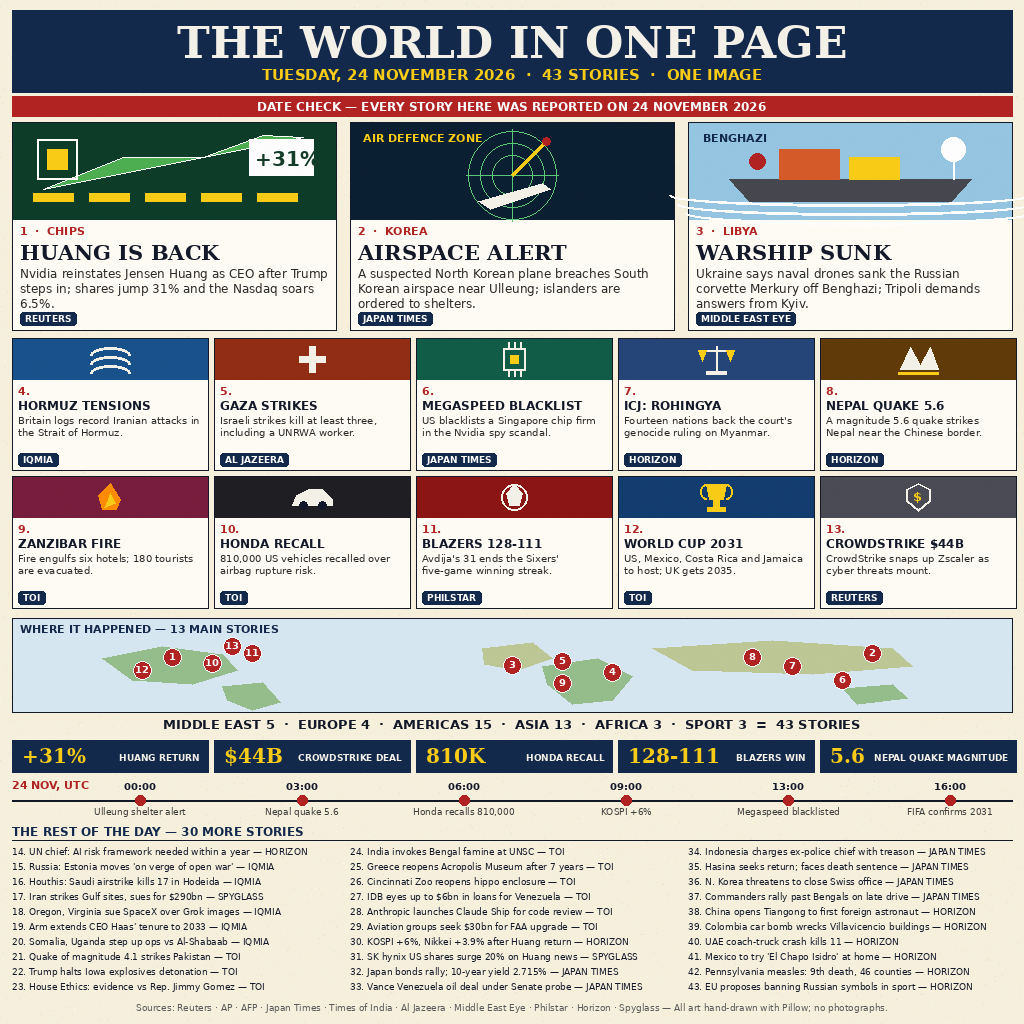
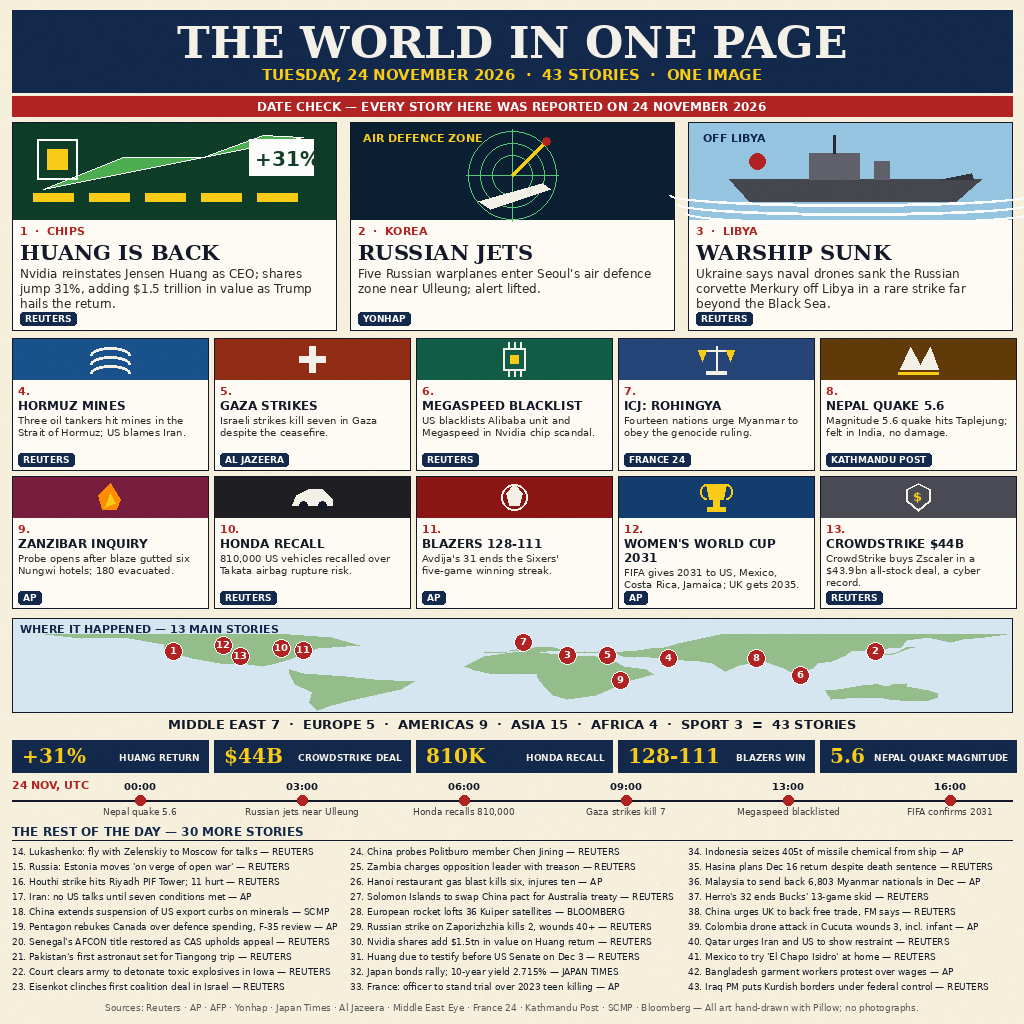
Round 3 revision: correct Russian jets, Gaza toll, Iowa ruling, Zanzibar date; real sources; real-geography map

diff --git a/index.html b/index.html
@@ -22,7 +22,7 @@
 <div class="date">TUESDAY, 24 NOVEMBER 2026 · 43 STORIES · ONE IMAGE</div>
 <img src="entry.png" alt="The World in One Page — 24 November 2026: 43 stories in one image">
 <p>One image sums up Tuesday 24 November 2026: Nvidia brings Jensen Huang
-back as CEO, a suspected North Korean plane breaches South Korean airspace,
+back as CEO, Russian warplanes skirt South Korean airspace near Ulleung,
 and Ukraine says its naval drones sank a Russian warship off Libya — plus
 40 more stories, each with its source, from the Strait of Hormuz to the
 NBA.</p>

diff --git a/draw24.py b/draw24.py
@@ -1,10 +1,14 @@
 #!/usr/bin/env python3
 """Draw 'The World in One Page - 24 November 2026' (1024x1024).
 
-Every story below was reported on Tuesday 24 November 2026 (Reuters, AP,
-AFP, Japan Times, Times of India, Al Jazeera, Middle East Eye, Philstar,
-Horizon, Spyglass, The Daily Edition). Deterministic: fixed seed, no clock,
-no network. Run: python3 draw24.py
+Round 3 revision: every story below was reported on Tuesday 24 November
+2026 (Reuters, AP, AFP, Yonhap, Japan Times, Al Jazeera, Middle East Eye,
+France 24, Kathmandu Post, SCMP, Bloomberg). Fixes the round 2 entry: the
+Ulleung jets were Russian, not North Korean; Gaza's toll was seven, not
+three; the Iowa detonation was cleared by a court, not halted; the Zanzibar
+fire was 21 November, so that story is now the inquiry that opened on the
+24th; fake-looking source badges are gone; the map is real geography.
+Deterministic: fixed seed, no clock, no network. Run: python3 draw24.py
 """
 import random
 
@@ -77,100 +81,101 @@ def source_tag(d, x, y, source):
 # ------------------------------------------------------------------ stories
 TOP = [
     dict(n=1, kick="CHIPS", head="HUANG IS BACK",
-         deck="Nvidia reinstates Jensen Huang as CEO after Trump steps in; "
-              "shares jump 31% and the Nasdaq soars 6.5%.",
+         deck="Nvidia reinstates Jensen Huang as CEO; shares jump 31%, "
+              "adding $1.5 trillion in value as Trump hails the return.",
          src="REUTERS", art="chip"),
-    dict(n=2, kick="KOREA", head="AIRSPACE ALERT",
-         deck="A suspected North Korean plane breaches South Korean airspace "
-              "near Ulleung; islanders are ordered to shelters.",
-         src="JAPAN TIMES", art="radar"),
+    dict(n=2, kick="KOREA", head="RUSSIAN JETS",
+         deck="Five Russian warplanes enter Seoul's air defence zone near "
+              "Ulleung; alert lifted.",
+         src="YONHAP", art="radar"),
     dict(n=3, kick="LIBYA", head="WARSHIP SUNK",
          deck="Ukraine says naval drones sank the Russian corvette Merkury "
-              "off Benghazi; Tripoli demands answers from Kyiv.",
-         src="MIDDLE EAST EYE", art="ship"),
+              "off Libya in a rare strike far beyond the Black Sea.",
+         src="REUTERS", art="ship"),
 ]
 
 CARDS = [
-    dict(n=4, head="HORMUZ TENSIONS",
-         body="Britain logs record Iranian attacks in the Strait of Hormuz.",
-         src="IQMIA", art="wave", bg=(24, 82, 140)),
+    dict(n=4, head="HORMUZ MINES",
+         body="Three oil tankers hit mines in the Strait of Hormuz; US blames Iran.",
+         src="REUTERS", art="wave", bg=(24, 82, 140)),
     dict(n=5, head="GAZA STRIKES",
-         body="Israeli strikes kill at least three, including a UNRWA worker.",
+         body="Israeli strikes kill seven in Gaza despite the ceasefire.",
          src="AL JAZEERA", art="cross", bg=(146, 44, 20)),
     dict(n=6, head="MEGASPEED BLACKLIST",
-         body="US blacklists a Singapore chip firm in the Nvidia spy scandal.",
-         src="JAPAN TIMES", art="chip", bg=(16, 92, 70)),
+         body="US blacklists Alibaba unit and Megaspeed in Nvidia chip scandal.",
+         src="REUTERS", art="chip", bg=(16, 92, 70)),
     dict(n=7, head="ICJ: ROHINGYA",
-         body="Fourteen nations back the court's genocide ruling on Myanmar.",
-         src="HORIZON", art="scales", bg=(36, 68, 120)),
+         body="Fourteen nations urge Myanmar to obey the genocide ruling.",
+         src="FRANCE 24", art="scales", bg=(36, 68, 120)),
     dict(n=8, head="NEPAL QUAKE 5.6",
-         body="A magnitude 5.6 quake strikes Nepal near the Chinese border.",
-         src="HORIZON", art="quake", bg=(96, 58, 8)),
-    dict(n=9, head="ZANZIBAR FIRE",
-         body="Fire engulfs six hotels; 180 tourists are evacuated.",
-         src="TOI", art="flame", bg=(120, 28, 60)),
+         body="Magnitude 5.6 quake hits Taplejung; felt in India, no damage.",
+         src="KATHMANDU POST", art="quake", bg=(96, 58, 8)),
+    dict(n=9, head="ZANZIBAR INQUIRY",
+         body="Probe opens after blaze gutted six Nungwi hotels; 180 evacuated.",
+         src="AP", art="flame", bg=(120, 28, 60)),
     dict(n=10, head="HONDA RECALL",
-         body="810,000 US vehicles recalled over airbag rupture risk.",
-         src="TOI", art="car", bg=(30, 30, 34)),
+         body="810,000 US vehicles recalled over Takata airbag rupture risk.",
+         src="REUTERS", art="car", bg=(30, 30, 34)),
     dict(n=11, head="BLAZERS 128-111",
          body="Avdija's 31 ends the Sixers' five-game winning streak.",
-         src="PHILSTAR", art="ball", bg=(140, 20, 20)),
-    dict(n=12, head="WORLD CUP 2031",
-         body="US, Mexico, Costa Rica and Jamaica to host; UK gets 2035.",
-         src="TOI", art="trophy", bg=(18, 60, 110)),
+         src="AP", art="ball", bg=(140, 20, 20)),
+    dict(n=12, head="WOMEN'S WORLD CUP 2031",
+         body="FIFA gives 2031 to US, Mexico, Costa Rica, Jamaica; UK gets 2035.",
+         src="AP", art="trophy", bg=(18, 60, 110)),
     dict(n=13, head="CROWDSTRIKE $44B",
-         body="CrowdStrike snaps up Zscaler as cyber threats mount.",
+         body="CrowdStrike buys Zscaler in a $43.9bn all-stock deal, a cyber record.",
          src="REUTERS", art="shield", bg=(74, 74, 84)),
 ]
 
 BRIEFS = [
-    (14, "UN chief: AI risk framework needed within a year", "HORIZON"),
-    (15, "Russia: Estonia moves 'on verge of open war'", "IQMIA"),
-    (16, "Houthis: Saudi airstrike kills 17 in Hodeida", "IQMIA"),
-    (17, "Iran strikes Gulf sites, sues for $290bn", "SPYGLASS"),
-    (18, "Oregon, Virginia sue SpaceX over Grok images", "IQMIA"),
-    (19, "Arm extends CEO Haas' tenure to 2033", "IQMIA"),
-    (20, "Somalia, Uganda step up ops vs Al-Shabaab", "IQMIA"),
-    (21, "Quake of magnitude 4.1 strikes Pakistan", "TOI"),
-    (22, "Trump halts Iowa explosives detonation", "TOI"),
-    (23, "House Ethics: evidence vs Rep. Jimmy Gomez", "TOI"),
-    (24, "India invokes Bengal famine at UNSC", "TOI"),
-    (25, "Greece reopens Acropolis Museum after 7 years", "TOI"),
-    (26, "Cincinnati Zoo reopens hippo enclosure", "TOI"),
-    (27, "IDB eyes up to $6bn in loans for Venezuela", "TOI"),
-    (28, "Anthropic launches Claude Ship for code review", "TOI"),
-    (29, "Aviation groups seek $30bn for FAA upgrade", "TOI"),
-    (30, "KOSPI +6%, Nikkei +3.9% after Huang return", "HORIZON"),
-    (31, "SK hynix US shares surge 20% on Huang news", "SPYGLASS"),
+    (14, "Lukashenko: fly with Zelenskiy to Moscow for talks", "REUTERS"),
+    (15, "Russia: Estonia moves 'on verge of open war'", "REUTERS"),
+    (16, "Houthi strike hits Riyadh PIF Tower; 11 hurt", "REUTERS"),
+    (17, "Iran: no US talks until seven conditions met", "AP"),
+    (18, "China extends suspension of US export curbs on minerals", "SCMP"),
+    (19, "Pentagon rebukes Canada over defence spending, F-35 review", "AP"),
+    (20, "Senegal's AFCON title restored as CAS upholds appeal", "REUTERS"),
+    (21, "Pakistan's first astronaut set for Tiangong trip", "REUTERS"),
+    (22, "Court clears army to detonate toxic explosives in Iowa", "REUTERS"),
+    (23, "Eisenkot clinches first coalition deal in Israel", "REUTERS"),
+    (24, "China probes Politburo member Chen Jining", "REUTERS"),
+    (25, "Zambia charges opposition leader with treason", "REUTERS"),
+    (26, "Hanoi restaurant gas blast kills six, injures ten", "AP"),
+    (27, "Solomon Islands to swap China pact for Australia treaty", "REUTERS"),
+    (28, "European rocket lofts 36 Kuiper satellites", "BLOOMBERG"),
+    (29, "Russian strike on Zaporizhzhia kills 2, wounds 40+", "REUTERS"),
+    (30, "Nvidia shares add $1.5tn in value on Huang return", "REUTERS"),
+    (31, "Huang due to testify before US Senate on Dec 3", "REUTERS"),
     (32, "Japan bonds rally; 10-year yield 2.715%", "JAPAN TIMES"),
-    (33, "Vance Venezuela oil deal under Senate probe", "JAPAN TIMES"),
-    (34, "Indonesia charges ex-police chief with treason", "JAPAN TIMES"),
-    (35, "Hasina seeks return; faces death sentence", "JAPAN TIMES"),
-    (36, "N. Korea threatens to close Swiss office", "JAPAN TIMES"),
-    (37, "Commanders rally past Bengals on late drive", "JAPAN TIMES"),
-    (38, "China opens Tiangong to first foreign astronaut", "HORIZON"),
-    (39, "Colombia car bomb wrecks Villavicencio buildings", "HORIZON"),
-    (40, "UAE coach-truck crash kills 11", "HORIZON"),
-    (41, "Mexico to try 'El Chapo Isidro' at home", "HORIZON"),
-    (42, "Pennsylvania measles: 9th death, 46 counties", "HORIZON"),
-    (43, "EU proposes banning Russian symbols in sport", "HORIZON"),
+    (33, "France: officer to stand trial over 2023 teen killing", "AP"),
+    (34, "Indonesia seizes 405t of missile chemical from ship", "AP"),
+    (35, "Hasina plans Dec 16 return despite death sentence", "REUTERS"),
+    (36, "Malaysia to send back 6,803 Myanmar nationals in Dec", "AP"),
+    (37, "Herro's 32 ends Bucks' 13-game skid", "REUTERS"),
+    (38, "China urges UK to back free trade, FM says", "REUTERS"),
+    (39, "Colombia drone attack in Cucuta wounds 3, incl. infant", "AP"),
+    (40, "Qatar urges Iran and US to show restraint", "REUTERS"),
+    (41, "Mexico to try 'El Chapo Isidro' at home", "REUTERS"),
+    (42, "Bangladesh garment workers protest over wages", "AP"),
+    (43, "Iraq PM puts Kurdish borders under federal control", "REUTERS"),
 ]
 
-REGIONS = ("MIDDLE EAST 5  ·  EUROPE 4  ·  AMERICAS 15  ·  ASIA 13  ·  "
-           "AFRICA 3  ·  SPORT 3  =  43 STORIES")
+REGIONS = ("MIDDLE EAST 7  ·  EUROPE 5  ·  AMERICAS 9  ·  ASIA 15  ·  "
+           "AFRICA 4  ·  SPORT 3  =  43 STORIES")
 NUMBERS = [("+31%", "HUANG RETURN"), ("$44B", "CROWDSTRIKE DEAL"),
            ("810K", "HONDA RECALL"), ("128-111", "BLAZERS WIN"),
            ("5.6", "NEPAL QUAKE MAGNITUDE")]
-TIMELINE = [("00:00", "Ulleung shelter alert"), ("03:00", "Nepal quake 5.6"),
-            ("06:00", "Honda recalls 810,000"), ("09:00", "KOSPI +6%"),
+TIMELINE = [("00:00", "Nepal quake 5.6"), ("03:00", "Russian jets near Ulleung"),
+            ("06:00", "Honda recalls 810,000"), ("09:00", "Gaza strikes kill 7"),
             ("13:00", "Megaspeed blacklisted"), ("16:00", "FIFA confirms 2031")]
 
-# (x fraction, y fraction, story number) on the map strip
-MAP_DOTS = [(0.16, 0.42, 1), (0.86, 0.38, 2), (0.50, 0.50, 3),
-            (0.60, 0.58, 4), (0.55, 0.46, 5), (0.83, 0.66, 6),
-            (0.78, 0.52, 7), (0.74, 0.42, 8), (0.55, 0.70, 9),
-            (0.20, 0.48, 10), (0.24, 0.38, 11), (0.13, 0.56, 12),
-            (0.22, 0.30, 13)]
+# (longitude, latitude, story number) on the map strip; 12 nudged west so
+# its dot clears 13 (both are US stories)
+MAP_DOTS = [(-122.0, 37.4, 1), (130.9, 37.5, 2), (20.1, 32.1, 3),
+            (56.3, 26.6, 4), (34.5, 31.5, 5), (103.8, 1.4, 6),
+            (4.3, 52.1, 7), (87.9, 27.9, 8), (39.2, -6.2, 9),
+            (-83.0, 42.3, 10), (-75.2, 40.0, 11), (-104.0, 47.0, 12),
+            (-97.7, 30.3, 13)]
 
 
 def art_chip(d, x, y, w, h):
@@ -209,14 +214,16 @@ def art_ship(d, x, y, w, h):
         yy = y + 72 + i * 9
         d.arc([x - 20 + i * 8, yy - 11, x + w + 20, yy + 11], 0, 180,
               fill=(255, 255, 255), width=3)
-    d.polygon([(x + 40, y + 56), (x + w - 40, y + 56), (x + w - 60, y + 78),
+    # warship: grey hull with pointed bow, superstructure, mast, deck gun
+    d.polygon([(x + 40, y + 56), (x + w - 30, y + 56), (x + w - 55, y + 78),
                (x + 60, y + 78)], fill=(70, 70, 78))
-    d.rectangle([x + 90, y + 26, x + 150, y + 56], fill=(214, 90, 40))
-    d.rectangle([x + 160, y + 34, x + 210, y + 56], fill=(250, 205, 21))
-    d.ellipse([x + w - 70, y + 14, x + w - 46, y + 38], fill=(255, 255, 255))
-    d.line([x + w - 58, y + 38, x + w - 58, y + 56], fill=(255, 255, 255), width=2)
+    d.rectangle([x + 120, y + 30, x + 170, y + 56], fill=(96, 96, 106))
+    d.rectangle([x + 185, y + 38, x + 200, y + 56], fill=(96, 96, 106))
+    d.line([x + 145, y + 30, x + 145, y + 12], fill=(40, 40, 48), width=3)
+    d.polygon([(x + w - 70, y + 56), (x + w - 40, y + 50), (x + w - 38, y + 56)],
+              fill=(50, 50, 58))
     d.ellipse([x + 60, y + 30, x + 76, y + 46], fill=RED)
-    d.text((x + 14, y + 8), "BENGHAZI", font=sans_b(11), fill=NAVY)
+    d.text((x + 14, y + 8), "OFF LIBYA", font=sans_b(11), fill=NAVY)
 
 
 ART = {"chip": art_chip, "radar": art_radar, "ship": art_ship}
@@ -342,23 +349,50 @@ def build():
     d.rectangle([mx, my, mx + mw, my + mh], outline=INK, width=1)
     d.text((mx + 8, my + 4), "WHERE IT HAPPENED — 13 MAIN STORIES",
            font=sans_b(11), fill=NAVY)
-    blobs = [
-        ([(90, 40), (150, 28), (210, 36), (225, 52), (180, 66), (120, 62)],
-         (150, 190, 140)),
-        ([(210, 68), (250, 64), (268, 84), (240, 92), (215, 82)],
-         (150, 190, 140)),
-        ([(470, 30), (520, 24), (540, 40), (505, 52), (472, 46)],
-         (190, 200, 150)),
-        ([(530, 48), (585, 40), (620, 58), (600, 82), (560, 86), (535, 66)],
-         (150, 190, 140)),
-        ([(640, 30), (760, 22), (880, 30), (900, 48), (800, 56), (680, 52)],
-         (190, 200, 150)),
-        ([(830, 70), (880, 66), (895, 80), (845, 86)], (150, 190, 140)),
+    # coarse real continents, equirectangular: lon -180..180 across the
+    # strip, lat 65..-55 below the title band
+    def project(lon, lat):
+        px = mx + int((lon + 180) / 360 * mw)
+        py = my + 16 + int((65 - lat) / 120 * (mh - 16))
+        return (px, max(my + 16, min(my + mh - 2, py)))
+    LAND = [
+        [(-168, 66), (-140, 70), (-120, 72), (-95, 80), (-80, 73), (-75, 62),
+         (-65, 60), (-55, 47), (-70, 42), (-75, 35), (-80, 26), (-85, 20),
+         (-90, 15), (-95, 18), (-105, 20), (-115, 28), (-125, 40),
+         (-125, 49), (-140, 60), (-155, 58), (-168, 66)],
+        [(-80, 10), (-75, 5), (-60, 0), (-50, -5), (-35, -8), (-40, -20),
+         (-50, -30), (-58, -38), (-65, -45), (-70, -52), (-73, -40),
+         (-72, -25), (-78, -12), (-80, 5)],
+        [(-17, 15), (-10, 30), (0, 36), (10, 37), (20, 32), (30, 31),
+         (35, 28), (40, 15), (48, 11), (51, 2), (40, -10), (35, -20),
+         (30, -30), (20, -35), (15, -30), (12, -18), (9, -2), (9, 4),
+         (-8, 5), (-13, 9), (-17, 15)],
+        [(-10, 36), (-2, 37), (0, 39), (10, 37), (15, 40), (20, 40),
+         (23, 36), (28, 36), (30, 36), (36, 36), (40, 38), (45, 40),
+         (50, 42), (55, 45), (60, 50), (65, 55), (70, 60), (75, 68),
+         (80, 73), (90, 75), (100, 77), (110, 74), (120, 73), (130, 72),
+         (140, 72), (150, 70), (160, 66), (170, 66), (178, 65), (170, 60),
+         (162, 56), (158, 52), (150, 59), (142, 55), (140, 45), (135, 43),
+         (130, 42), (127, 40), (122, 38), (120, 32), (115, 23), (110, 20),
+         (108, 12), (105, 8), (100, 7), (98, 12), (95, 16), (92, 21),
+         (90, 22), (86, 20), (82, 17), (80, 13), (77, 8), (75, 12),
+         (72, 20), (68, 23), (62, 25), (58, 26), (55, 27), (50, 29),
+         (48, 30), (44, 29), (40, 30), (36, 36), (33, 36), (30, 36),
+         (26, 38), (22, 37), (19, 40), (15, 44), (12, 44), (8, 44),
+         (3, 43), (0, 40), (-2, 37), (-9, 37), (-10, 36)],
+        [(113, -22), (114, -30), (115, -35), (120, -34), (129, -32),
+         (132, -32), (136, -35), (140, -38), (145, -38), (150, -37),
+         (153, -32), (153, -27), (150, -22), (146, -19), (142, -15),
+         (142, -11), (137, -12), (135, -15), (132, -12), (130, -13),
+         (126, -14), (122, -17), (117, -20), (113, -22)],
+        [(130, 31), (132, 33), (135, 34), (137, 35), (139, 36), (140, 38),
+         (141, 40), (143, 42), (145, 44), (142, 44), (140, 40), (139, 37),
+         (137, 34), (134, 34), (131, 33), (130, 31)],
     ]
-    for pts, col in blobs:
-        d.polygon([(mx + px, my + py) for px, py in pts], fill=col)
-    for fx, fy, num in MAP_DOTS:
-        cx, cy = mx + int(fx * mw), my + int(fy * mh)
+    for poly in LAND:
+        d.polygon([project(lon, lat) for lon, lat in poly], fill=(150, 190, 140))
+    for lon, lat, num in MAP_DOTS:
+        cx, cy = project(lon, lat)
         d.ellipse([cx - 9, cy - 9, cx + 9, cy + 9], fill=RED,
                   outline=(255, 255, 255), width=1)
         d.text((cx, cy - 1), str(num), font=sans_b(10), fill=(255, 255, 255),
@@ -398,8 +432,8 @@ def build():
 
     # ---- footer
     d.text((512, 1002),
-           "Sources: Reuters · AP · AFP · Japan Times · Times of India · Al Jazeera · "
-           "Middle East Eye · Philstar · Horizon · Spyglass — All art hand-drawn with Pillow; no photographs.",
+           "Sources: Reuters · AP · AFP · Yonhap · Japan Times · Al Jazeera · "
+           "Middle East Eye · France 24 · Kathmandu Post · SCMP · Bloomberg — All art hand-drawn with Pillow; no photographs.",
            font=sans(9), fill=(90, 90, 90), anchor="ma")
 
     # light deterministic noise wash so the file lands in the 271-712KB band

diff --git a/README.md b/README.md
@@ -9,15 +9,19 @@ day — 3 illustrated headlines, 10 illustrated cards, a numbered world map,
 region stats, a numbers bar, a UTC timeline, a DATE CHECK line and a source
 badge on every story. All art is hand-drawn with Pillow; no photographs.
 
+Round 3 revision (25 Nov): corrected the Ulleung jets (Russian, not North
+Korean), the Gaza toll, the Iowa ruling and the Zanzibar date; rebuilt the
+map on real geography; replaced weak briefs with consequential stories
+reported on 24 November; all source badges are real outlets now.
+
 ## Top stories
 
-1. **HUANG IS BACK** — Nvidia reinstates Jensen Huang as CEO after Trump
-   steps in; shares jump 31% and the Nasdaq soars 6.5%. (Reuters)
-2. **AIRSPACE ALERT** — A suspected North Korean plane breaches South Korean
-   airspace near Ulleung; islanders are ordered to shelters. (Japan Times)
+1. **HUANG IS BACK** — Nvidia reinstates Jensen Huang as CEO; shares jump
+   31%, adding $1.5 trillion in value as Trump hails the return. (Reuters)
+2. **RUSSIAN JETS** — Five Russian warplanes enter Seoul's air defence zone
+   near Ulleung; alert lifted. (Yonhap)
 3. **WARSHIP SUNK** — Ukraine says naval drones sank the Russian corvette
-   Merkury off Benghazi; Tripoli demands answers from Kyiv.
-   (Middle East Eye)
+   Merkury off Libya in a rare strike far beyond the Black Sea. (Reuters)
 
 ## Run
 
